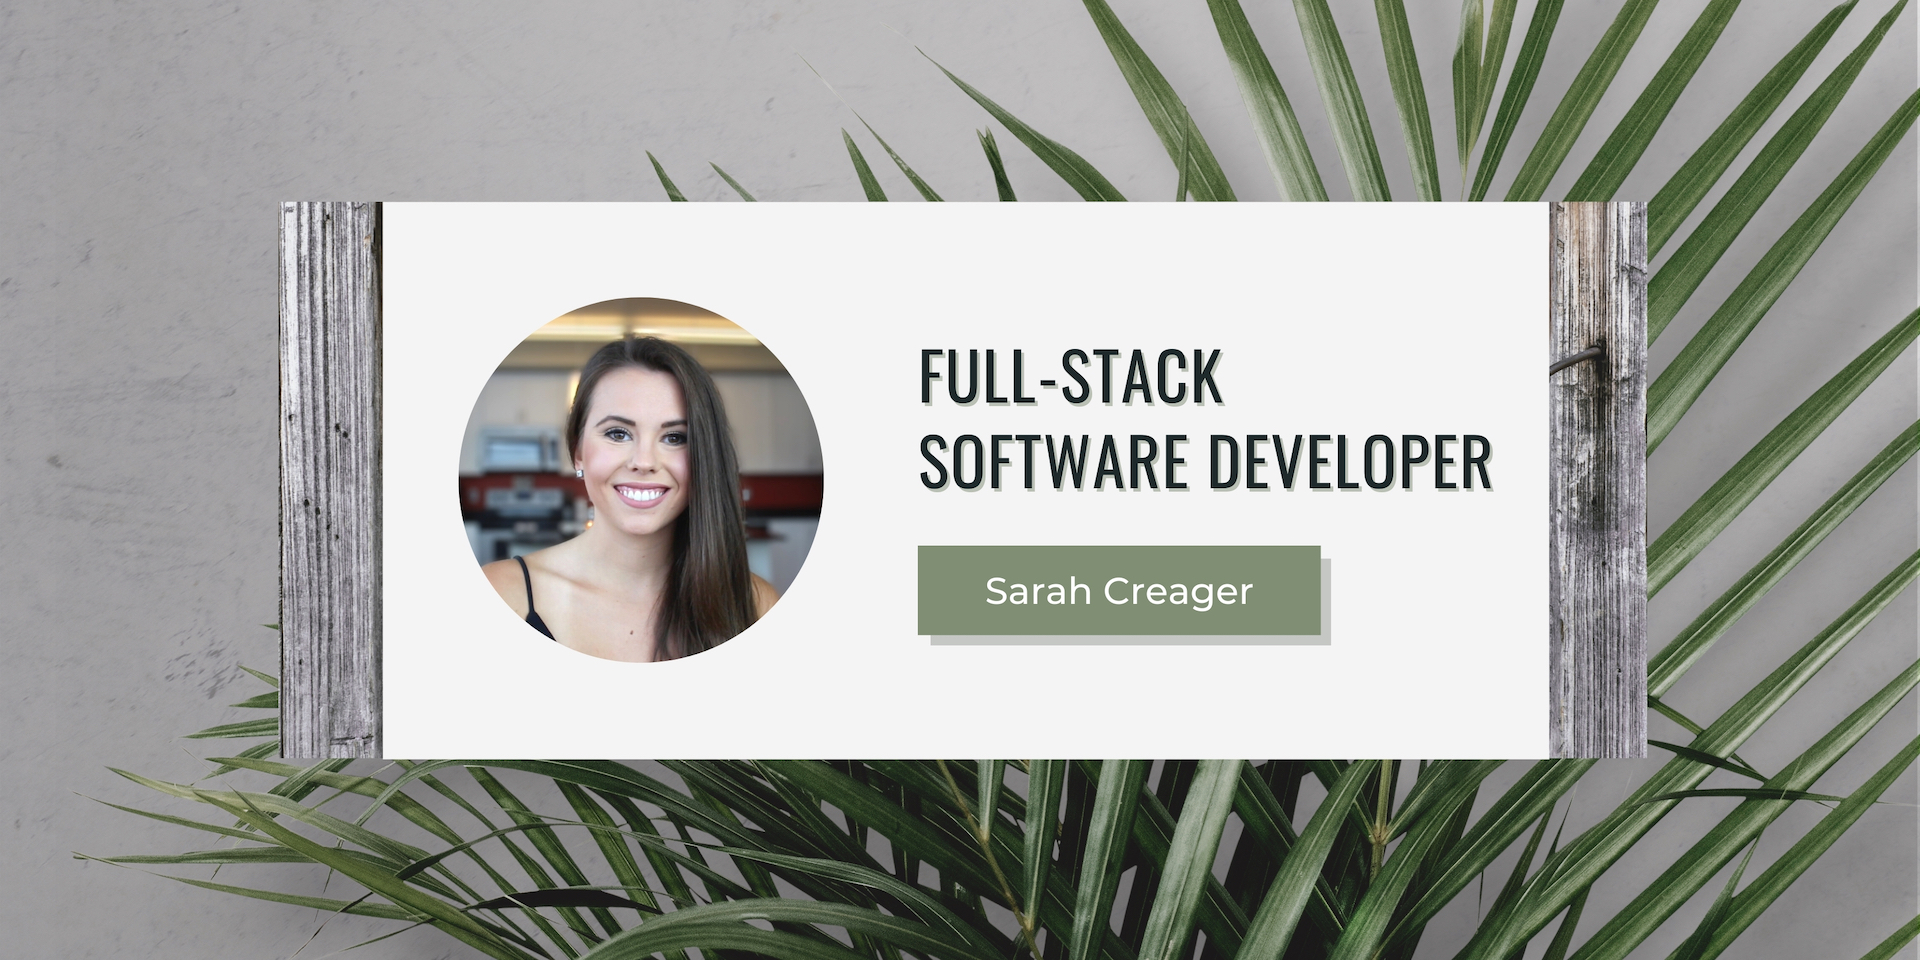
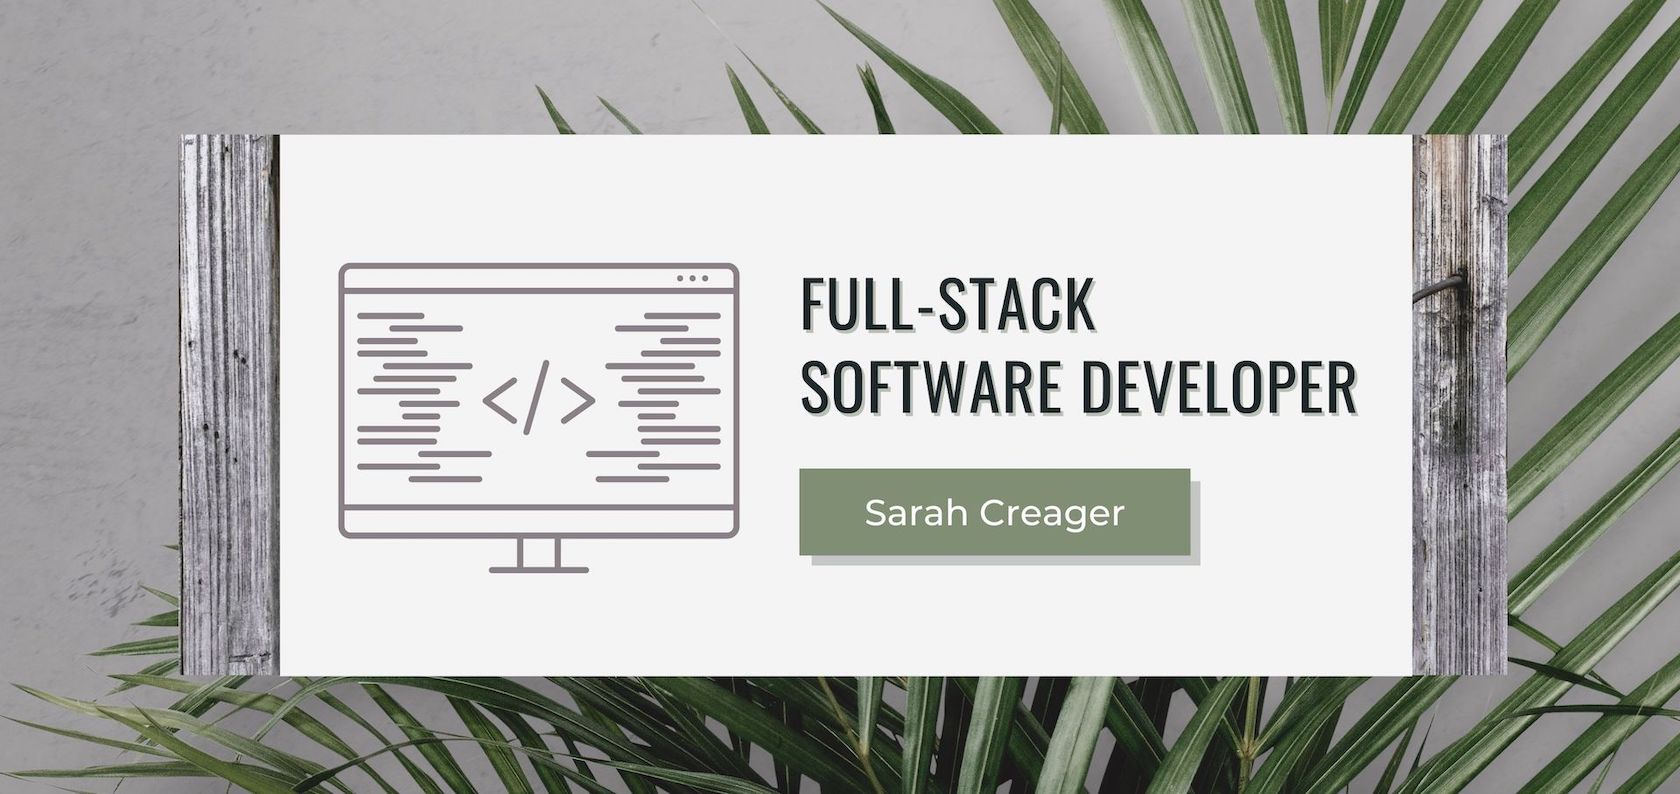
changed header img

diff --git a/README.md b/README.md
@@ -2,7 +2,7 @@
 </div>
 
 <div align="center">
-<img height="500px" src="./img/gitHubBanner.jpg">
+<img height="350px" src="./img/gitHubBanner.jpg">
 </div>
 
 <h2 align="center"> Welcome to my GitHub.</h2>
